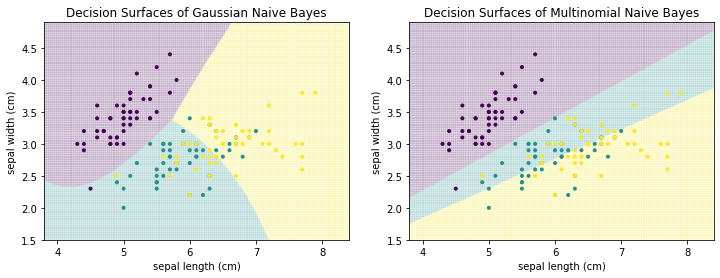
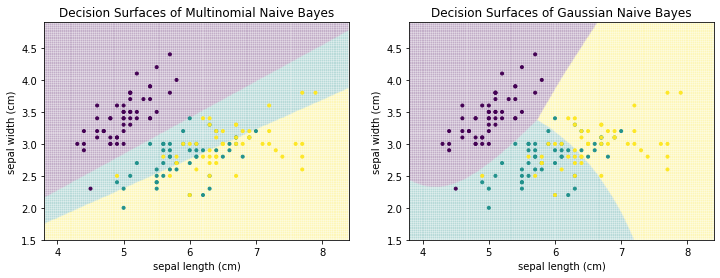
description of naive bayes

diff --git a/_build/07_Classification.html b/_build/07_Classification.html
@@ -13,7 +13,7 @@ prev_page:
 next_page:
   url: /Exercises.html
 suffix: .ipynb
-search: class c decision data classification metrics classes not positive instances b e example odds hypothesis features negative because performance confusion feature only x matrix whale thus predicted tdtd tpr random trees means frac tree case four values y p h same different spam instance td tr average used prediction false our concept based value curve sepal also get result fpr roc entropy binary threshold between predictions classifier surface scores single sum emails mean correctly above table mcc very training length decisions objects f often where percentage macro small weak consider following general well defined true information positives should however area
+search: class c data decision p not classification classes metrics features x positive e instances b example because odds hypothesis negative feature performance instance confusion only thus frac random case matrix whale means predicted tdtd tpr y trees values tree same four our h different bayes based value probability spam td tr average sepal used prediction false naive concept get curve also between often result fpr very classifier roc entropy well scores binary threshold mean predictions surface length f function single score sum emails correctly above table mcc however training decisions objects consider defined such where percentage should macro small yellow
 
 comment: "***PROGRAMMATICALLY GENERATED, DO NOT EDIT. SEE ORIGINAL FILES IN /content***"
 ---
@@ -1449,7 +1449,7 @@ $$<p>Thus, the odds of the class are the product of these exponentials. The impa
 <div class="text_cell_render border-box-sizing rendered_html">
 <p>We can see that the odds of Setosa increases strongly with the sepal width and decreases with the sepal length. Similarly, we can see that the odds of Versicolor and Virginica both increase with the sepal length and decrease with the sepal width. The intercept are the odds in case all features are exactly 0, i.e., $b_0$. Thus, all changes due to increasing feature values are with respect to the intercept. Because the intercept of Versicolor is larger than that of Virginica, there is a region in which the odds for Versicolor are larger, even though the increase in odds due to the sepal length is weaker and the decrease in odds is stronger than for Virginica.</p>
 <blockquote><p>Note:</p>
-<p>In this case the intercept is misleading. While the intercept for Setosa is very high, the coefficient for sepal length is very low. Given that the instances all have sepal lengths greater than four, this means that the impact of the large intercept vanishes because of this. For an in-depth analysis, the data should always be centered, e.g., with Z-score standardization.</p>
+<p>In this case the intercept is misleading. While the intercept for Setosa is very high, the coefficient for sepal length is very low. Given that the instances all have sepal lengths greater than four, this means that the impact of the large intercept vanishes because of this. For an in-depth analysis, the data should always be centered, e.g., with Z-score standardization. Moreover, in case the interpretation of the coefficients is the primary goal, you should consider to use a package like statsmodels instead of scikit-learn, because the regression analysis is more detailed, especially with respect to the statistical significance of the results.</p>
 </blockquote>
 
 </div>
@@ -1461,7 +1461,17 @@ $$<p>Thus, the odds of the class are the product of these exponentials. The impa
 
 <div class="cell border-box-sizing text_cell rendered"><div class="inner_cell">
 <div class="text_cell_render border-box-sizing rendered_html">
-<h2 id="Naive-Bayes">Naive Bayes<a class="anchor-link" href="#Naive-Bayes"> </a></h2>
+<h2 id="Naive-Bayes">Naive Bayes<a class="anchor-link" href="#Naive-Bayes"> </a></h2><p>Bayes Law is one of the fundamental theorems of stochastics and defined as</p>
+$$P(Y|X) = \frac{P(X|Y)P(Y)}{P(X)}.$$<p>If the random variable $X$ are our features, and the random variable $Y$ are our classes, $P(Y|X)$ is the probability of a class given the features. A perfect estimation of this would be an ideal scoring function for a score based classifier. In our case, we have</p>
+$$P(c|x_1, ..., x_m) = \frac{P(x_1, ..., x_m|c)P(c)}{P(x_1, ..., x_m)}$$<p>for a class $c \in C$ and an instance $(x_1, ..., x_m) \in \mathcal{F}$. Thus the probability of the class $c$ given the instance $(x_1, ..., x_m)$ is the probability of this instance given the class multiplied with the probability of observing this class and divided by the probability of observing the instance. The problem with Bayes Law is that it is usually very hard to accurately calculate $P(x_1, ..., x_m|c)$ and $P(x_1, ..., x_m)$, because this would require either the exact knowledge of the underlying joint probability distribution of all features, or an enormous amount of data, such that there are multiple observations for each possible instance.</p>
+<p>Instead, we go from Bayes Law to Naive Bayes. The core of Naive Bayes is the "naive assumption" that the features are conditionally independent given the class. For example, for the Iris data this would mean that the sepal length of Setosa is independent of the sepal width of Setosa. The data clearly shows that this is not the case. Hence, this assumption is almost never fulfilled and, therefore, naive.</p>
+<p>However, from a mathematical point of view, conditional independence given the class means that</p>
+$$P(x_1, ..., x_m | c) = \Pi_{i=1}^m P(x_i|c),$$<p>i.e., we do not need the joint distribution of all features anymore, but can work with the distribution of the individual features instead, which is much less complex. When we substitute this into Bayes Law, we get</p>
+$$P(c|x_1, ..., x_m) = \frac{\Pi_{i=1}^m P(x_i|c)P(c)}{P(x_1, ..., x_m)}.$$<p>We still have the joint probability $P(x_1, ..., x_m)$ in the denominator. However, this probability is independent of the class $c$. Since we are not really interested in the exact probability, but only in a scoring function that we can use for classification, we can just leave out the denominator, because it does not affect which class scores highest for an instance. Thus, we get</p>
+$$score(c|c_1, ..., c_m) = \Pi_{i=1}^m P(x_i|c)P(c).$$<p>We can calculate this scoring function and assign the class with the highest score. The open question is how $P(x_i|c)$ and $P(c)$ are calculated. For $P(c)$ this is straightforward, as this can be estimated by counting how often each class is observed in the data.</p>
+<p>The two most popular approach for the estimation of $P(x_i|c)$ are <em>Multinomial Naive Bayes</em> and <em>Gaussian Naive Bayes</em>. Multinomial Naive Bayes calculates $P(x_i|c)$ by counting how often the value $x_i$ is observed for the class $c$. This approach works well with categorical data and counts. Multinomial Naive Bayes does not work well with continuous numeric data, because the counts are very often exactly 1, because it is unlikely to observe the exact same value multiple times with continuous data. Gaussian Naive Bayes is better suited for such data. Gaussian Naive Bayes assumes that each feature follows a normal distribution and estimates the probability $P(x_i|c)$ through the density function of a normal distribution that is fitted based on all instance values for a feature.</p>
+<p>Below, we can see the difference between Multinomial Naive Bayes and Gaussian Naive Bayes for the Iris data.</p>
+
 </div>
 </div>
 </div>
@@ -1477,8 +1487,8 @@ $$<p>Thus, the odds of the class are the product of these exponentials. The impa
 <div class=" highlight hl-ipython3"><pre><span></span><span class="kn">from</span> <span class="nn">sklearn.naive_bayes</span> <span class="k">import</span> <span class="n">GaussianNB</span><span class="p">,</span> <span class="n">MultinomialNB</span>
 
 <span class="n">f</span><span class="p">,</span> <span class="n">axes</span> <span class="o">=</span> <span class="n">plt</span><span class="o">.</span><span class="n">subplots</span><span class="p">(</span><span class="mi">1</span><span class="p">,</span> <span class="mi">2</span><span class="p">,</span> <span class="n">figsize</span><span class="o">=</span><span class="p">(</span><span class="mi">12</span><span class="p">,</span> <span class="mi">4</span><span class="p">))</span>
-<span class="n">plot_decision_surface</span><span class="p">(</span><span class="n">GaussianNB</span><span class="p">(),</span> <span class="n">X</span><span class="p">,</span> <span class="n">Y</span><span class="p">,</span> <span class="n">title</span><span class="o">=</span><span class="s2">&quot;Decision Surfaces of Gaussian Naive Bayes&quot;</span><span class="p">,</span> <span class="n">ax</span><span class="o">=</span><span class="n">axes</span><span class="p">[</span><span class="mi">0</span><span class="p">])</span>
-<span class="n">plot_decision_surface</span><span class="p">(</span><span class="n">MultinomialNB</span><span class="p">(),</span> <span class="n">X</span><span class="p">,</span> <span class="n">Y</span><span class="p">,</span> <span class="n">title</span><span class="o">=</span><span class="s2">&quot;Decision Surfaces of Multinomial Naive Bayes&quot;</span><span class="p">,</span> <span class="n">ax</span><span class="o">=</span><span class="n">axes</span><span class="p">[</span><span class="mi">1</span><span class="p">])</span>
+<span class="n">plot_decision_surface</span><span class="p">(</span><span class="n">MultinomialNB</span><span class="p">(),</span> <span class="n">X</span><span class="p">,</span> <span class="n">Y</span><span class="p">,</span> <span class="n">title</span><span class="o">=</span><span class="s2">&quot;Decision Surfaces of Multinomial Naive Bayes&quot;</span><span class="p">,</span> <span class="n">ax</span><span class="o">=</span><span class="n">axes</span><span class="p">[</span><span class="mi">0</span><span class="p">])</span>
+<span class="n">plot_decision_surface</span><span class="p">(</span><span class="n">GaussianNB</span><span class="p">(),</span> <span class="n">X</span><span class="p">,</span> <span class="n">Y</span><span class="p">,</span> <span class="n">title</span><span class="o">=</span><span class="s2">&quot;Decision Surfaces of Gaussian Naive Bayes&quot;</span><span class="p">,</span> <span class="n">ax</span><span class="o">=</span><span class="n">axes</span><span class="p">[</span><span class="mi">1</span><span class="p">])</span>
 <span class="n">plt</span><span class="o">.</span><span class="n">show</span><span class="p">()</span>
 </pre></div>
 
@@ -1504,6 +1514,17 @@ $$<p>Thus, the odds of the class are the product of these exponentials. The impa
 </div>
 </div>
 
+</div>
+</div>
+
+<div class="jb_cell">
+
+<div class="cell border-box-sizing text_cell rendered"><div class="inner_cell">
+<div class="text_cell_render border-box-sizing rendered_html">
+<p>The decision boundaries of Multinomial Naive Bayes are linear, whereas the decision surfaces of Gaussian Naive Bayes are quadratic. We can see that Multinomial Naive Bayes does not work well, especially the separation between green and yellow does not seem reasonable. This is expected, because the data is numeric. Gaussian Naive Bayes yields better results.</p>
+
+</div>
+</div>
 </div>
 </div>
 
@@ -1593,7 +1614,7 @@ $$<p>Thus, the odds of the class are the product of these exponentials. The impa
 
 
 <div class="output_png output_subarea ">
-<img src="images/07_Classification_49_0.png"
+<img src="images/07_Classification_50_0.png"
 >
 </div>
 
@@ -1665,7 +1686,7 @@ $$<p>Thus, the odds of the class are the product of these exponentials. The impa
 
 
 <div class="output_png output_subarea ">
-<img src="images/07_Classification_50_0.png"
+<img src="images/07_Classification_51_0.png"
 >
 </div>
 
@@ -1707,7 +1728,7 @@ $$<p>Thus, the odds of the class are the product of these exponentials. The impa
 
 
 <div class="output_png output_subarea ">
-<img src="images/07_Classification_51_0.png"
+<img src="images/07_Classification_52_0.png"
 >
 </div>
 
@@ -1764,7 +1785,7 @@ $$<p>Thus, the odds of the class are the product of these exponentials. The impa
 
 
 <div class="output_png output_subarea ">
-<img src="images/07_Classification_53_0.png"
+<img src="images/07_Classification_54_0.png"
 >
 </div>
 
